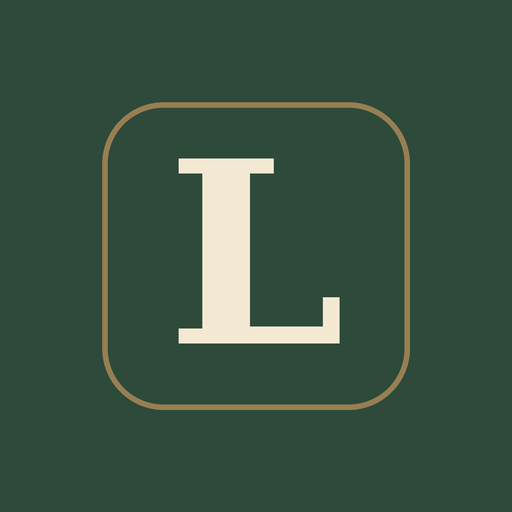
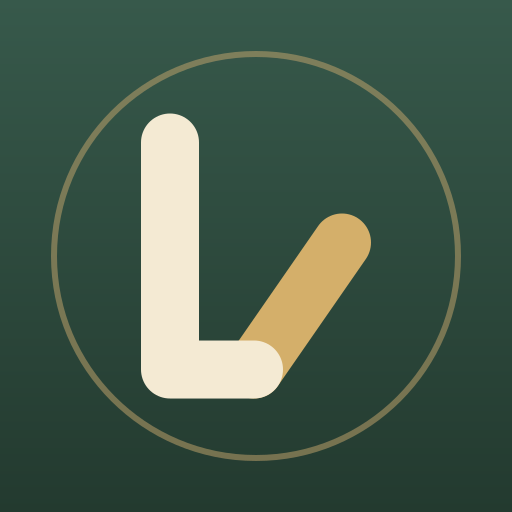
Nuevo ícono: L con palomita en verde bosque y dorado
Claude-Session: https://claude.ai/code/session_014cwynqpahqua6vuzcWjFTF

diff --git a/index.html b/index.html
@@ -851,7 +851,7 @@ function renderTop(){
   const v=VIEWS.find(x=>x.id===U.view);const T=today();
   const nPend=pending().length;
   const sub={today:`${DIA_L[wd(T)]} ${T.getDate()} de ${MES_L[T.getMonth()]}`,tasks:`${nPend} pendientes`,calendar:'Toca un día para verlo',plan:'Proyectos, objetivos y progreso'}[U.view];
-  $('#top').innerHTML=`<div class="mark" aria-hidden="true">L</div><div class="ttl"><b>${U.view==='today'?'LifeOS':v.l}</b><span>${sub}</span></div>${gPill()}<button class="iconbtn" data-a="settings" aria-label="Ajustes">${ic('gear',20,2)}</button>`;
+  $('#top').innerHTML=`<div class="mark" aria-hidden="true" style="overflow:hidden"><svg viewBox="0 0 1024 1024" width="100%" height="100%" style="display:block"><rect width="1024" height="1024" fill="#2E4A3B"/><g transform="translate(-32 23)"><path d="M540 716 L716 462" fill="none" stroke="#D4AF6A" stroke-width="130" stroke-linecap="round"/><path d="M372 262 L372 716 L540 716" fill="none" stroke="#F4EAD3" stroke-width="130" stroke-linecap="round" stroke-linejoin="round"/></g></svg></div><div class="ttl"><b>${U.view==='today'?'LifeOS':v.l}</b><span>${sub}</span></div>${gPill()}<button class="iconbtn" data-a="settings" aria-label="Ajustes">${ic('gear',20,2)}</button>`;
 }
 function renderView(){
   const a=document.activeElement,keep=a&&a.id&&(a.id==='quick'||a.id==='tq')?{id:a.id,v:a.value,s:a.selectionStart}:null;
@@ -1289,7 +1289,7 @@ function shSettings(){
     <button class="btn danger block ${SH.d.arm==='wipe'?'armed':''}" data-a="wipe">${SH.d.arm==='wipe'?'Toca otra vez: se borra todo':'Empezar de cero'}</button>`,'Ambas acciones reemplazan tus tareas, proyectos y objetivos aquí y en tu Google. No borran eventos del calendario. Exporta un respaldo antes.');
 }
 function shWelcome(){
-  return`<div style="text-align:center;margin-bottom:16px"><div class="mark" style="width:64px;height:64px;font-size:32px;border-radius:20px;margin:4px auto 14px">L</div><h2 id="shT">Bienvenido a LifeOS</h2>
+  return`<div style="text-align:center;margin-bottom:16px"><div class="mark" style="width:64px;height:64px;font-size:32px;border-radius:20px;margin:4px auto 14px;overflow:hidden"><svg viewBox="0 0 1024 1024" width="100%" height="100%" style="display:block"><rect width="1024" height="1024" fill="#2E4A3B"/><g transform="translate(-32 23)"><path d="M540 716 L716 462" fill="none" stroke="#D4AF6A" stroke-width="130" stroke-linecap="round"/><path d="M372 262 L372 716 L540 716" fill="none" stroke="#F4EAD3" stroke-width="130" stroke-linecap="round" stroke-linejoin="round"/></g></svg></div><h2 id="shT">Bienvenido a LifeOS</h2>
    <p class="muted" style="margin:8px 0 0;font-size:15px">Anota lo que tienes que hacer, organiza tu día y recibe avisos con Google Calendar.</p></div>
    <ol class="steps" style="margin-bottom:16px">
     ${GAS?'':'<li><span><b>Crea tu LifeOS privada</b> en Ajustes para tener avisos y sincronizar tus dispositivos.</span></li>'}

diff --git a/sw.js b/sw.js
@@ -1,5 +1,5 @@
 /* LifeOS · funcionamiento sin conexión. Los archivos de la app se piden primero a la red (para recibir actualizaciones) y, sin internet, se sirven desde la copia guardada. */
-const CACHE = 'lifeos-v1';
+const CACHE = 'lifeos-v2';
 const CORE = ['./', './index.html', './manifest.webmanifest', './icon-192.png', './icon-512.png', './apple-touch-icon.png'];
 self.addEventListener('install', e => { e.waitUntil(caches.open(CACHE).then(c => c.addAll(CORE))); self.skipWaiting(); });
 self.addEventListener('activate', e => { e.waitUntil(caches.keys().then(ks => Promise.all(ks.filter(k => k !== CACHE).map(k => caches.delete(k))))); self.clients.claim(); });
